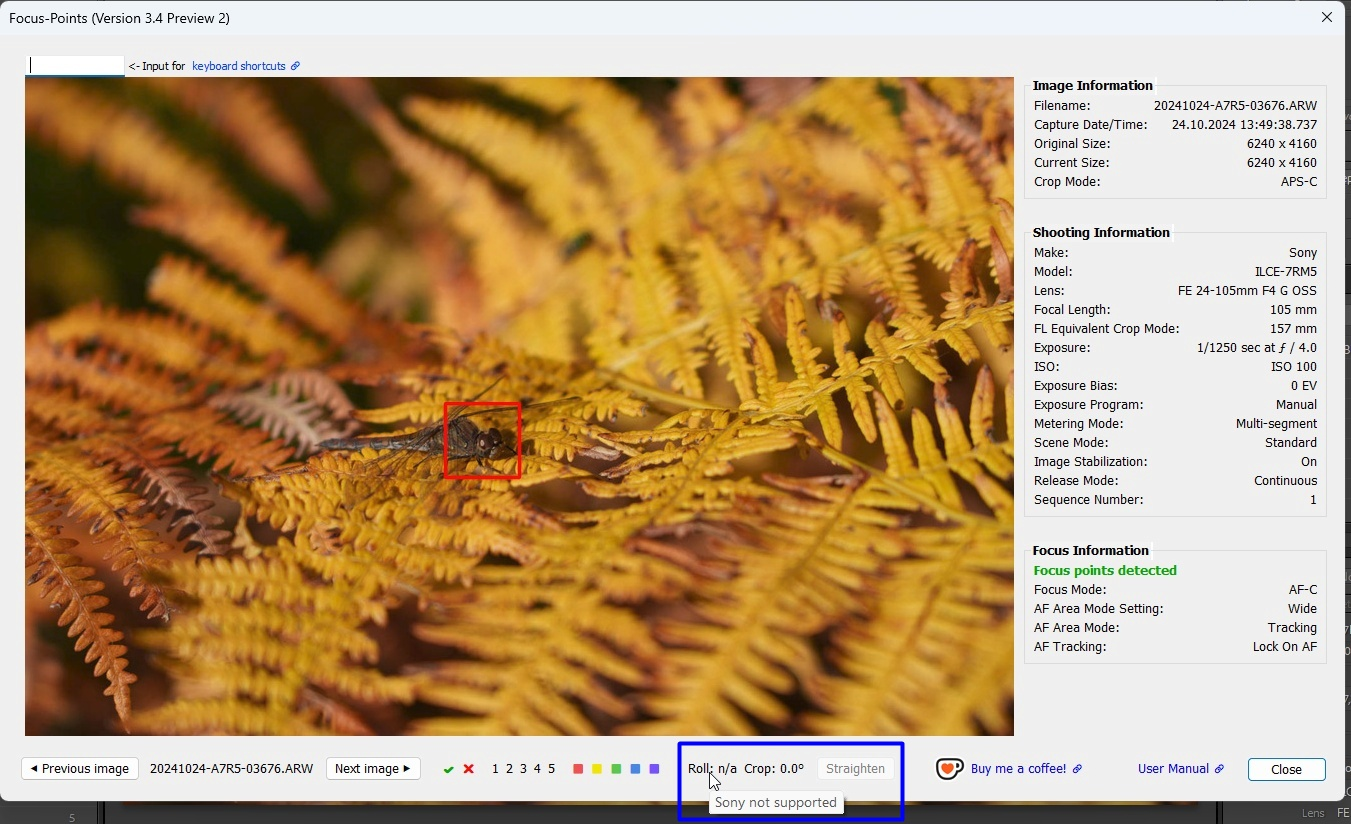
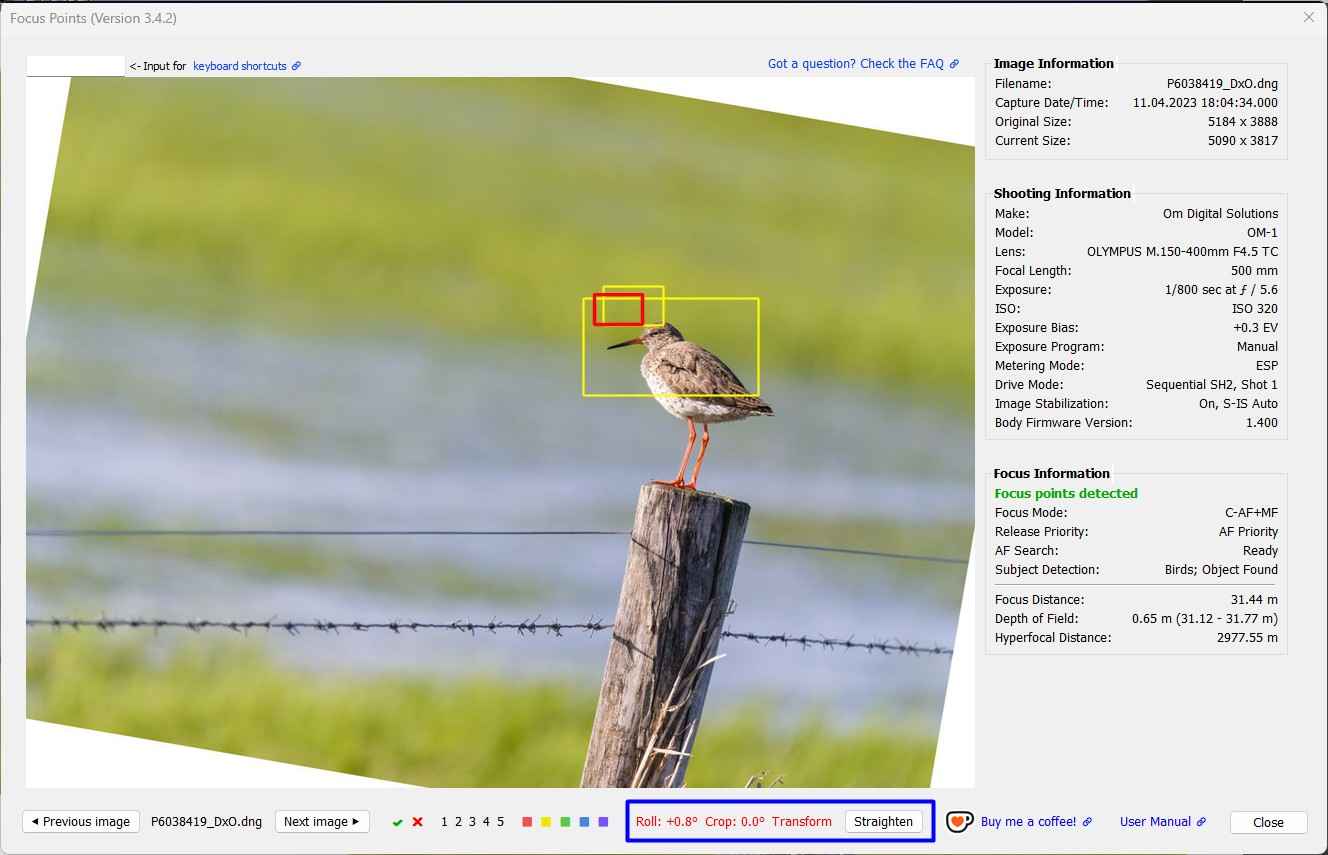
Update docs

diff --git a/docs/Focus-Points.md b/docs/Focus-Points.md
@@ -345,10 +345,10 @@ V3.4 enables you to level the image currently displayed in the Focus Point windo
 
 4. When Roll Angle and Crop Angle do not cancel each other, their values are highlighted in red. In this state, the `Straighten` button rotates the image by the opposite of the Roll Angle, resulting in a level image.
 
-5. When Roll Angle and Crop Angle are balanced, i.e., their values cancel each other, their values are highlighted in green. In this state, the `Straighten` button changes to `Reset`. Clicking `Reset` restores the crop settings that were in effect before the image was straightened.
-<br>
+5. When Roll Angle and Crop Angle are balanced, i.e., their values cancel each other, their values are highlighted in green. In this state, the `Straighten` button changes to `Reset`. Clicking `Reset` restores the crop settings that were in effect before the image was straightened.<br><br>
 
-**Example:**  
+
+**Example: Straighten a photo which has not been taken level**  
 
 The user opens a photo in the Focus Point Viewer. The red text displayed in the 'Straighten' control indicates that the roll and crop angles are not balanced. This means that the image was not taken level and the tilt has not been corrected. The `Straighten` button can be used to rotate the image resulting in a level image:
 
@@ -363,9 +363,40 @@ If the result is not satisfactory, it can be undone using the `Reset` button, wh
 The performed edits are recorded in Lightroom's History panel:
 
 <img src="images/Straighten Control 3.jpg" alt="Straighten Control 3" style="width: 600px;"/><br><br>
-For images that cannot be straightened because Roll Angle information is unavailable, the text is displayed in black and the control is disabled. Hovering the mouse pointer over the text displays a tooltip explaining the reason (e.g. unsupported camera model or missing Roll Angle information).
+
+**Example: Straighten a photo with 'Upright Level' setting already applied**  
+
+Lightroom provides various options for 'straightening' a photo. To automatically straighten a photo with respect to a horizontal tilt, apply the 'Upright Level' option. This can be done either individually or during import. 
+
+While this works quite well for photos with clear reference points representing the horizon, it can produce unexpected results for photos lacking these.
+
+The 'Upright Level' tool has been used for this photo of a bird on a pole, attempting to straighten it: 
 
 <img src="images/Straighten Control 4.jpg" alt="Straighten Control 4" style="width: 1000px;"/>
+
+The text 'Transform' right next to the Crop angle indicates that Transform settings have been applied to this photo. A Transform setting can be one of the 6 Upright tools, or any of the individual Transform settings below: 
+
+<img src="images/Straighten Control 9.jpg" alt="Straighten Control 9"/>
+
+Clearly, the 'Upright Level' result is not satisfactory. The tool used the fence wire as a reference, even though it is not one.  
+Could the Straighten tool in Focus Point Viewer do a better job?
+
+<img src="images/Straighten Control 5.jpg" alt="Straighten Control 5" style="width: 1000px;"/>
+
+After pressing the `Straighten` button, a warning will appear asking you to confirm whether you want to discard and overwrite the existing Transform settings. These settings will not be permanently deleted, but can be restored via the `Reset` button if desired.  
+
+<img src="images/Straighten Control 6.jpg" alt="Straighten Control 6" style="width: 1000px;"/>
+
+Applying a roll angle compensation to straighten this image indeed gives a much better result compared to using Lightroom's Upright tool. The History panel provides a detailed list of the steps taken to straighten the image, and allows you to undo this change by selecting `Reset`. 
+
+<img src="images/Straighten Control 7.jpg" alt="Straighten Control 7"/><br><br>
+
+
+**Example: Roll Angle information is not present in metadata**
+
+For images that cannot be straightened because Roll Angle information is unavailable, the text is displayed in black and the control is disabled. Hovering the mouse pointer over the text displays a tooltip explaining the reason (e.g. unsupported camera model or missing Roll Angle information).
+
+<img src="images/Straighten Control 8.jpg" alt="Straighten Control 8" style="width: 1000px;"/>
 <br><br>
 
 ### Keyboard Shortcuts
@@ -671,7 +702,10 @@ These settings control the process of [Straightening Images](#24-Straighten-imag
 <img src="images/Settings%20-%20Straightening%20Options.jpg" alt="User Interface"/>
 
 **_Overwrite existing crop angle setting_**. Default setting: `Off`<br>
-Roll angle compensation will be applied regardless of whether the photo has already been rotated. The straightening angle will replace the existing crop angle, rather than being added to it.
+Roll angle compensation will be applied, even if the photo has already been rotated using Lightroom's Crop & Straighten tool. The straightening angle replaces the rotation (crop) angle rather than being added to it. If `Display warning` is selected, a dialogue box will appear in interactive mode to confirm the overwrite.
+
+**_Overwrite existing Transform settings_**. Default setting: `Off`<br>
+Roll angle compensation will be applied, even if the photo has Transform settings, such as Upright, applied. If `Display warning` is selected, a dialogue box will appear in interactive mode to confirm the overwrite.
 
 **_Apply straightening only for angles between x and y_**. Default setting: `Off`<br>
 Roll angle compensation will only be applied for angles within the range of x to y degrees.  
